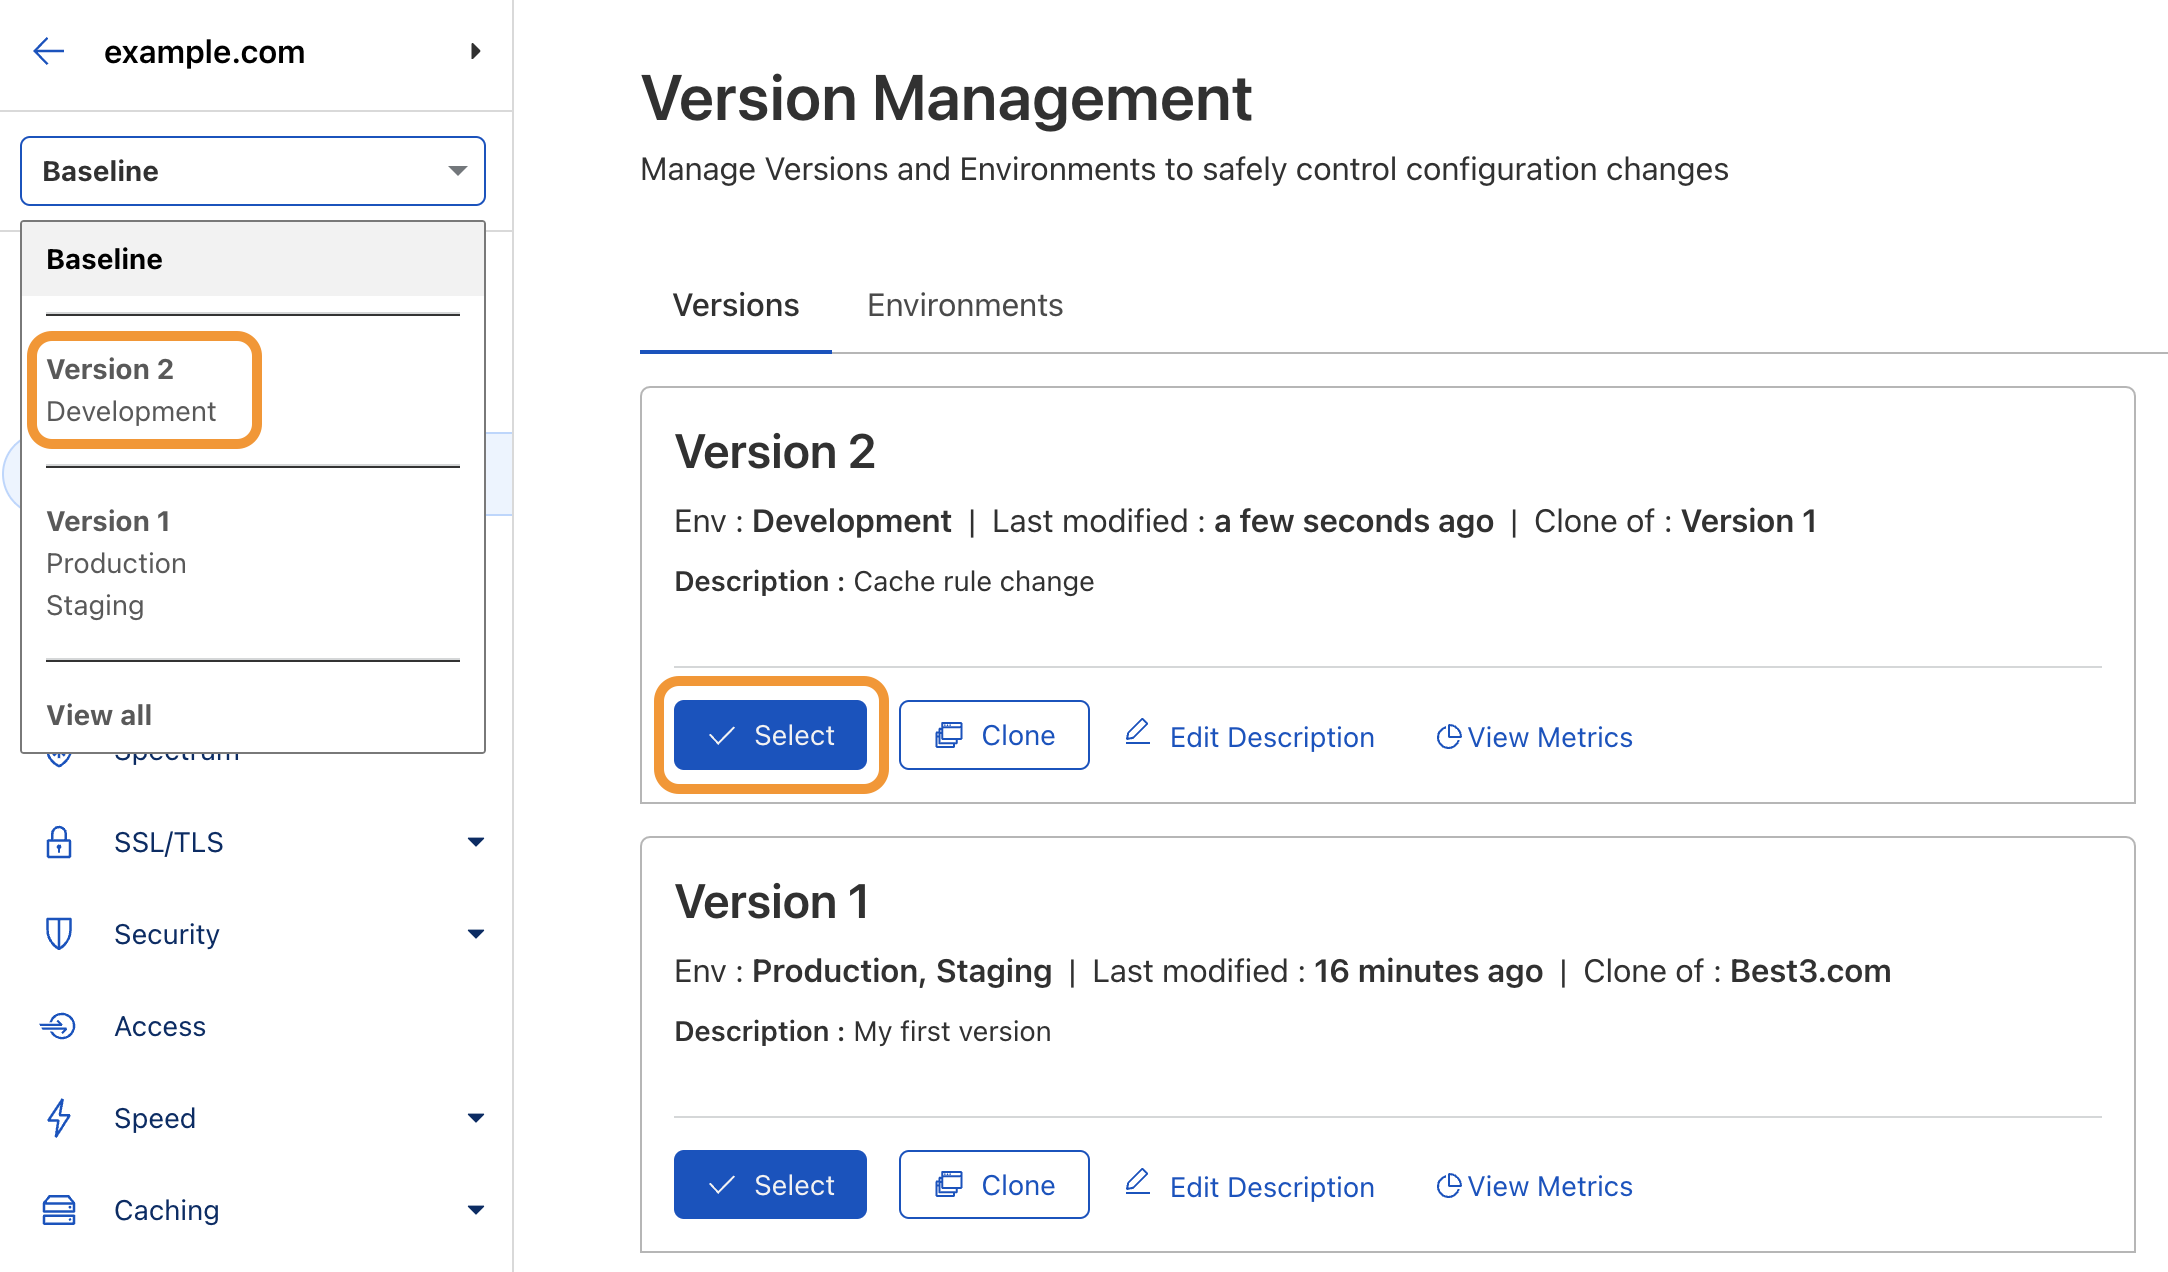
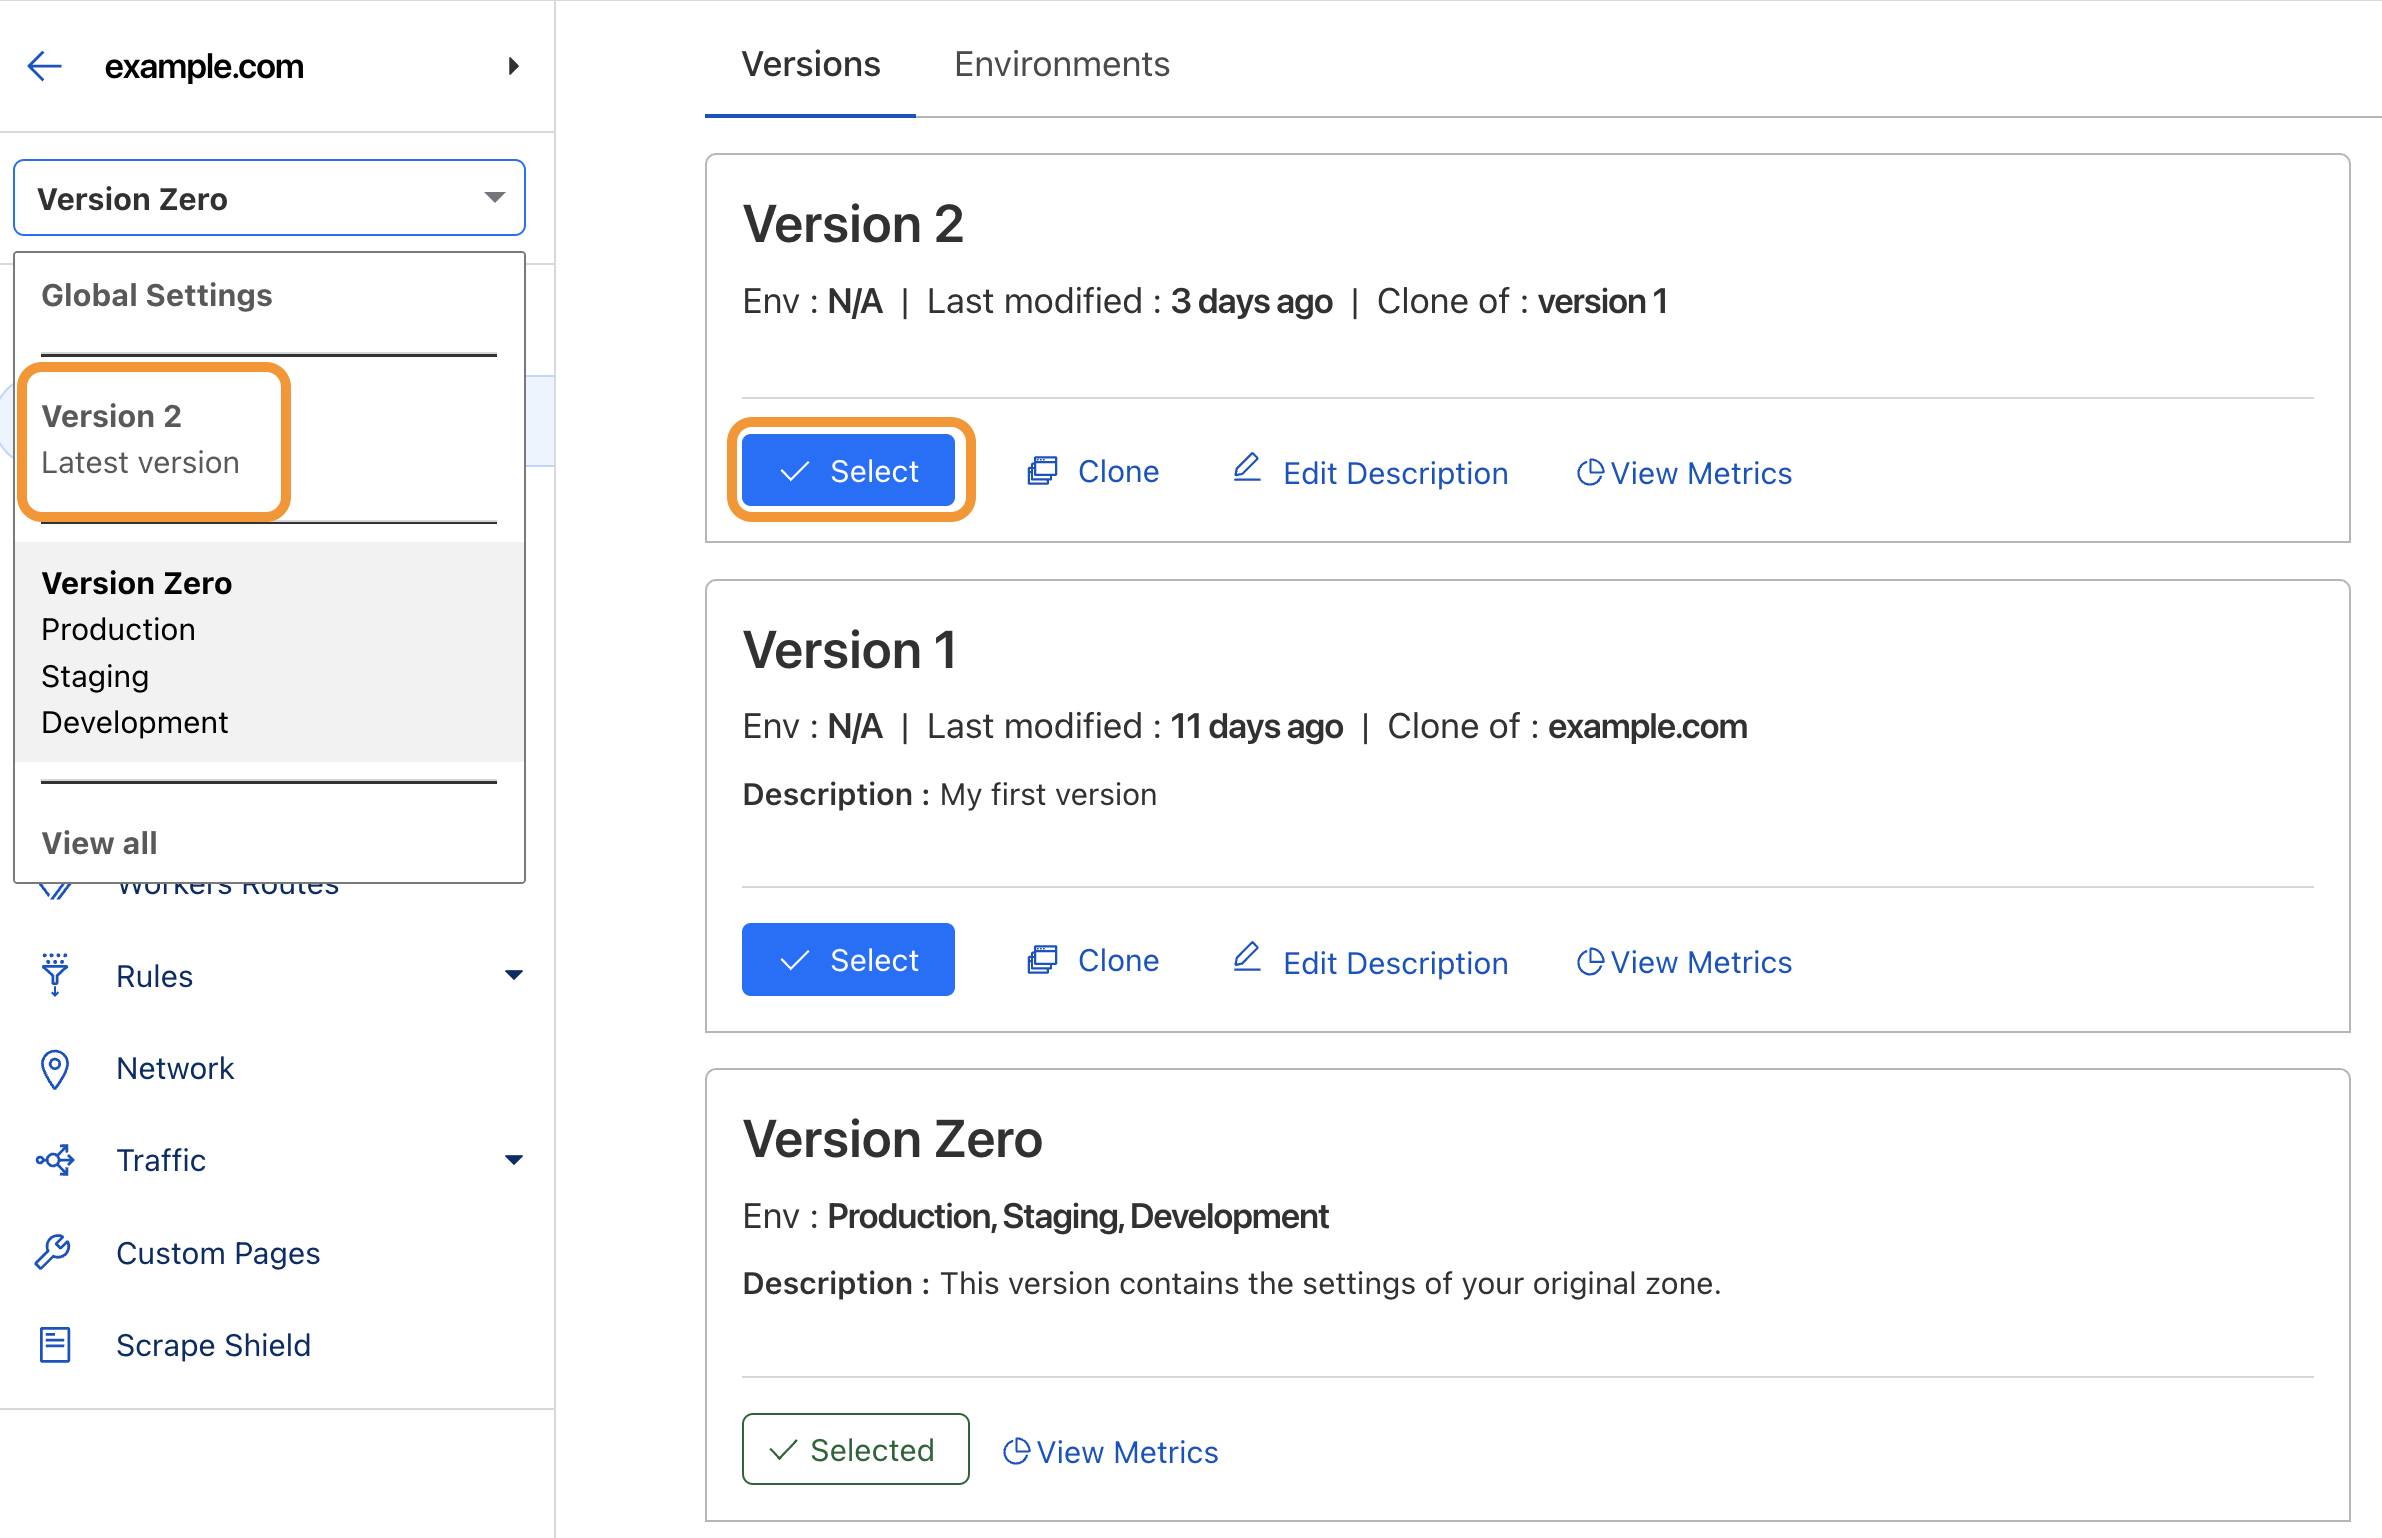
[Version management] UI updates (#8123)
* Version management UI updates

* Clarified wording

* replaced screenshot

diff --git a/content/version-management/_partials/_enable-default-creation.md b/content/version-management/_partials/_enable-default-creation.md
@@ -5,4 +5,12 @@ _build:
   list: never
 ---
 
-Once you enable Version Management, Cloudflare will automatically create **Version 1** of your zone (along with a **Baseline** version), as well as environments for **Production**, **Staging**, and **Development**.
+Once you [enable](/version-management/how-to/enable/) Version Management, Cloudflare will automatically create:
+
+- **Version Zero** of your zone, which duplicates all existing settings that are compatible with version management. Since this version is initially applied to your [read-only Production environment](/version-management/reference/read-only-environments/), you cannot edit any settings.
+- **Version 1** of your zone, which is the same as **Version Zero** but its settings can be [updated](/version-management/how-to/versions/#change-settings-in-a-version) and [applied](/version-management/how-to/environments/#change-environment-version) to environments.
+- **Global Settings**, which controls the settings that are not compatible with version management. 
+
+Any changes made to **Global Settings** will immediately apply to your zone and all versions of your zone.
+
+Cloudflare also automatically creates environments for **Production**, **Staging**, and **Development**.

diff --git a/content/version-management/how-to/versions.md b/content/version-management/how-to/versions.md
@@ -20,7 +20,6 @@ During the open beta, you can only interact with environments and versions using
 ## Create version
 
 {{<render file="_enable-default-creation.md">}}
-<br/>
 
 If you need to test out different implementations of configurations at the same time or multiple types of changes, create a new version of your zone.
 
@@ -36,8 +35,13 @@ To create a new version:
 
 ## Change settings in a version
 
+Your zone settings are split up into two areas: **Global Settings** and different versions.
+-   Global settings control the non-versionable settings of a zone and - when changed - automatically apply to all versions of your zone.
+- Version settings update the versionable settings of your zone and are:
+    - Editable when not applied to a [read-only environment](/version-management/reference/read-only-environments/).
+    - Applied when [associated with an environment](/version-management/how-to/environments/#change-environment-version).
+
 {{<render file="_edit-version.md">}}
-<br/>
 
 {{<Aside type="note">}}
 

diff --git a/content/version-management/about.md b/content/version-management/about.md
@@ -58,7 +58,7 @@ To send traffic to specific environments, send requests to that environment that
 {{<render file="_version-definition.md">}}
 <br/>
 
-When you first [enable](/version-management/how-to/enable/) version management, Cloudflare will automatically create **Version 1** of your zone, which duplicates all existing zone settings. Within each version, you can [update](/version-management/how-to/versions/#change-settings-in-a-version) settings as needed. These settings are saved automatically.
+{{<render file="_enable-default-creation.md">}}
 
 When your version is ready, you would then test and promote it through various environments until it reaches **Production** (or whatever your final environment is).
 

diff --git a/content/version-management/get-started.md b/content/version-management/get-started.md
@@ -15,7 +15,6 @@ Follow this tutorial to start testing and deploying zone configuration changes w
 ## Step 2 (optional) - Create additional environments
 
 {{<render file="_enable-default-creation.md">}}
-<br/>
 
 These environments each serve a specific purpose and are accessed differently:
 {{<render file="_environment-defaults.md">}}

diff --git a/content/version-management/how-to/environments.md b/content/version-management/how-to/environments.md
@@ -20,7 +20,6 @@ During the open beta, you can only interact with applications and versions using
 ## Create environment
 
 {{<render file="_enable-default-creation.md">}}
-<br/>
 
 {{<render file="_create-environment-situation.md">}}
 <br/>

diff --git a/content/version-management/how-to/enable.md b/content/version-management/how-to/enable.md
@@ -9,7 +9,7 @@ meta:
 # Enable Version Management
 
 {{<render file="_enable-versioning.md">}}
-<br/>
+
+---
 
 {{<render file="_enable-default-creation.md">}}
-<br/>
